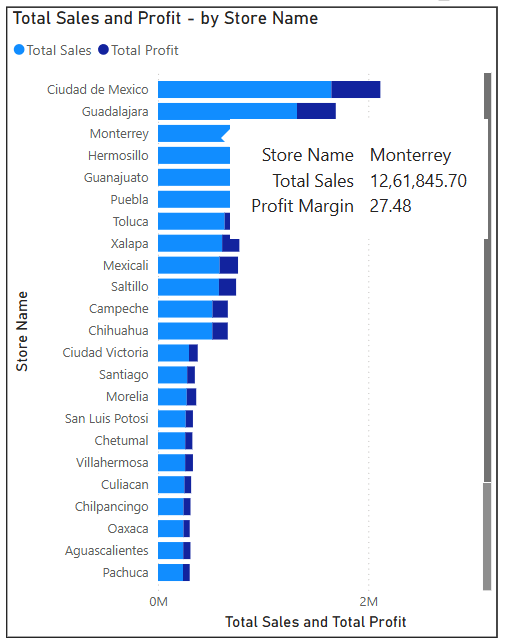
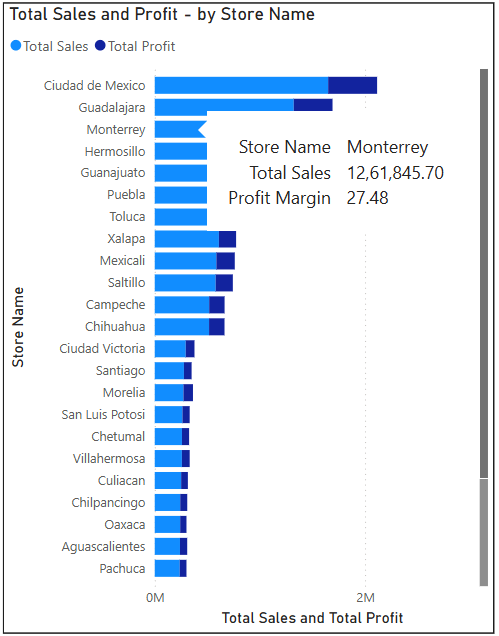
new images

Changed region(s): [[0.0, 0.0, 0.992, 1.0]]

diff --git a/_portfolio/portfolio-2.md b/_portfolio/portfolio-2.md
@@ -95,8 +95,8 @@ Python (Pandas, Numpy, Matplotlib, Seaborn), Power BI, Jupyter Notebook
 ---
 
 <p align="center">
-  <img src="/images/ToysSales_SalesAndProfit by Store Name1.png" width="400px" height="300px" style="display: inline-block;">
-  <img src="/images/ToysSales_SalesAndProfit by Store Name2.png" width="400px" height="300px" style="display: inline-block;">
+  <img src="/images/ToysSales_SalesAndProfit by Store Name1.png" width="45%" />
+  <img src="/images/ToysSales_SalesAndProfit by Store Name2.png" width="45%" />
 </p>
 
 - Ciudad de Mexico leads in **absolute sales and profit.** Monterrey shows high with a strong **profit margin of 27.48%.**
